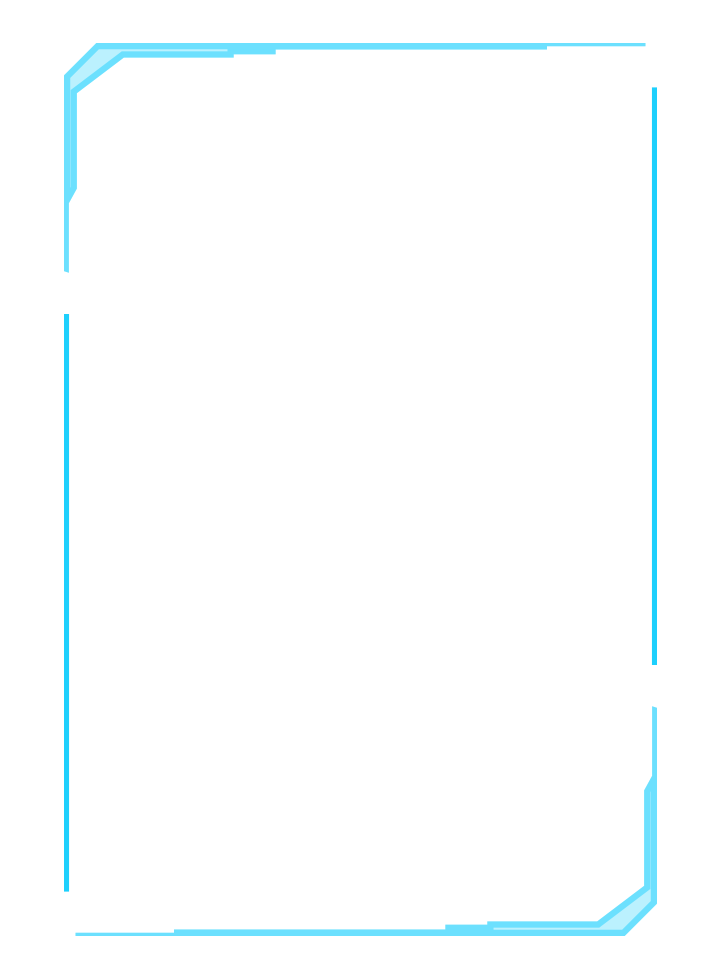
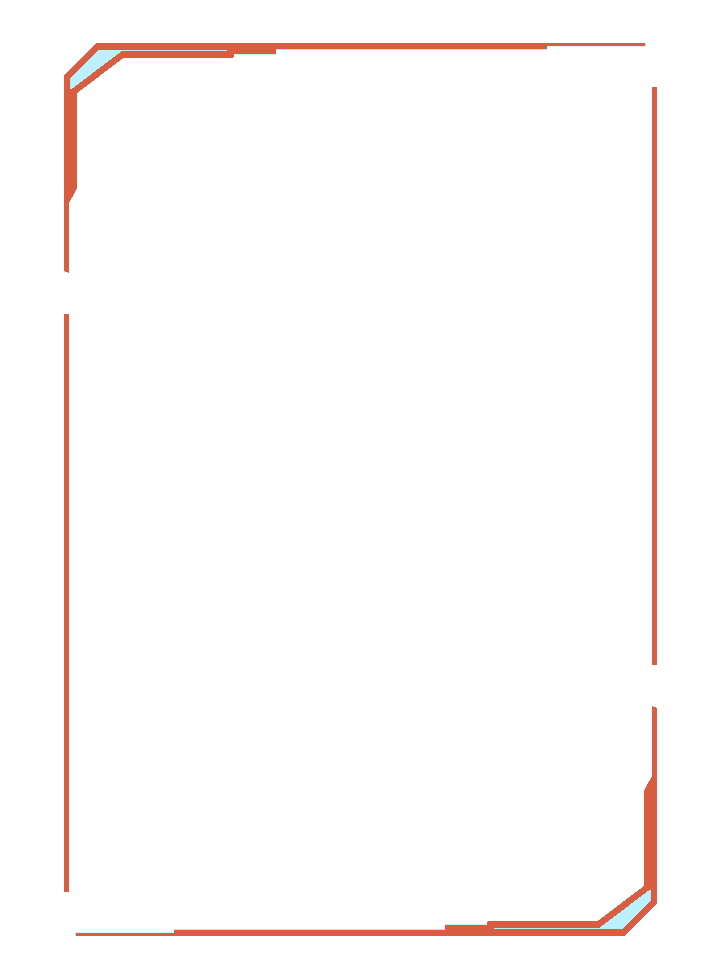
categories and about us

diff --git a/src/components/About/About.jsx b/src/components/About/About.jsx
@@ -94,7 +94,14 @@ export default function AboutUs() {
             logo,
             <div className="expanded-content">
               <img src={AboutImage} alt="About" className="expanded-image" />
-              <p className="expanded-text">
+              {window.innerWidth<600 ? (
+                <p className="expanded-text">
+                We, RoboVITics - The official club of VIT, are a collection of
+                vehement tech enthusiasts with the aspiration to learn and hone
+                our skills & 
+              </p>
+              ):(
+                <p className="expanded-text">
                 We, RoboVITics - The official club of VIT, are a collection of
                 vehement tech enthusiasts with the aspiration to learn and hone
                 our skills & the drive to excel. As the official robotics club of
@@ -105,6 +112,7 @@ export default function AboutUs() {
                 projects and support exemplary teams that have received numerous
                 accolades.
               </p>
+              )}
             </div>
           )}
         </div>
@@ -120,7 +128,14 @@ export default function AboutUs() {
             warLogo,
             <div className="expanded-content">
               <img src={AboutImage} alt="About" className="expanded-image" />
-              <p className="expanded-text">
+              {window.innerWidth<600 ? (
+                <p className="expanded-text">
+                We, RoboVITics - The official club of VIT, are a collection of
+                vehement tech enthusiasts with the aspiration to learn and hone
+                our skills & 
+              </p>
+              ):(
+                <p className="expanded-text">
                 We, RoboVITics - The official club of VIT, are a collection of
                 vehement tech enthusiasts with the aspiration to learn and hone
                 our skills & the drive to excel. As the official robotics club of
@@ -131,6 +146,7 @@ export default function AboutUs() {
                 projects and support exemplary teams that have received numerous
                 accolades.
               </p>
+              )}
             </div>
           )}
         </div>
@@ -146,7 +162,14 @@ export default function AboutUs() {
             GravLogo,
             <div className="expanded-content">
                <img src={AboutImage} alt="About" className="expanded-image" />
-              <p className="expanded-text">
+               {window.innerWidth<600 ? (
+                <p className="expanded-text">
+                We, RoboVITics - The official club of VIT, are a collection of
+                vehement tech enthusiasts with the aspiration to learn and hone
+                our skills & 
+              </p>
+              ):(
+                <p className="expanded-text">
                 We, RoboVITics - The official club of VIT, are a collection of
                 vehement tech enthusiasts with the aspiration to learn and hone
                 our skills & the drive to excel. As the official robotics club of
@@ -157,6 +180,7 @@ export default function AboutUs() {
                 projects and support exemplary teams that have received numerous
                 accolades.
               </p>
+              )}
             </div>
           )}
           

diff --git a/src/components/Categories/Categories.css b/src/components/Categories/Categories.css
@@ -2,24 +2,71 @@
   display: flex;
   justify-content: space-evenly;
 }
+
 .robot1,
 .robot2,
 .robot3 {
   width: 35%;
   height: 80vh;
 }
+
 .categories-heading {
   text-align: center;
 }
+
 @media only screen and (max-width: 768px) {
   .categories {
     display: flex;
     flex-direction: column;
+    align-items: center; /* Center align the columns */
   }
   .robot1,
   .robot2,
   .robot3 {
-    width: 100%;
-    height: 50vh;
+    width: 70%; /* Adjust the width for better fit on mobile */
+    height: 50vh; /* Adjust height if necessary */
+    margin-bottom: 20px; /* Add spacing between items */
   }
+  #three-container,
+  #three-container1 {
+    margin-top: -520px;
+    margin-bottom: -10px;
+  }
+  #three-container {
+    margin-bottom: -20px;
+  }
+}
+
+.robot-container {
+  /* Ensure there's enough space for the 3D models */
+}
+
+#three-container,
+#three-container1 {
+  display: flex;
+  align-items: center;
+  justify-content: center;
+  margin-top: -150px;
+  margin-bottom: -130px;
+}
+
+#three-container1 {
+  margin-left: -400px;
+}
+
+#three-container {
+  margin-bottom: -135px;
+}
+
+.robot-container h2 {
+  margin-left: 45%;
+  padding-top: 10%;
+}
+
+.white-container {
+  width: 100%;
+  height: 100%;
+  background-image: url("../../assets/frame.png");
+  background-repeat: no-repeat;
+  background-size: 100% 100%;
 }
